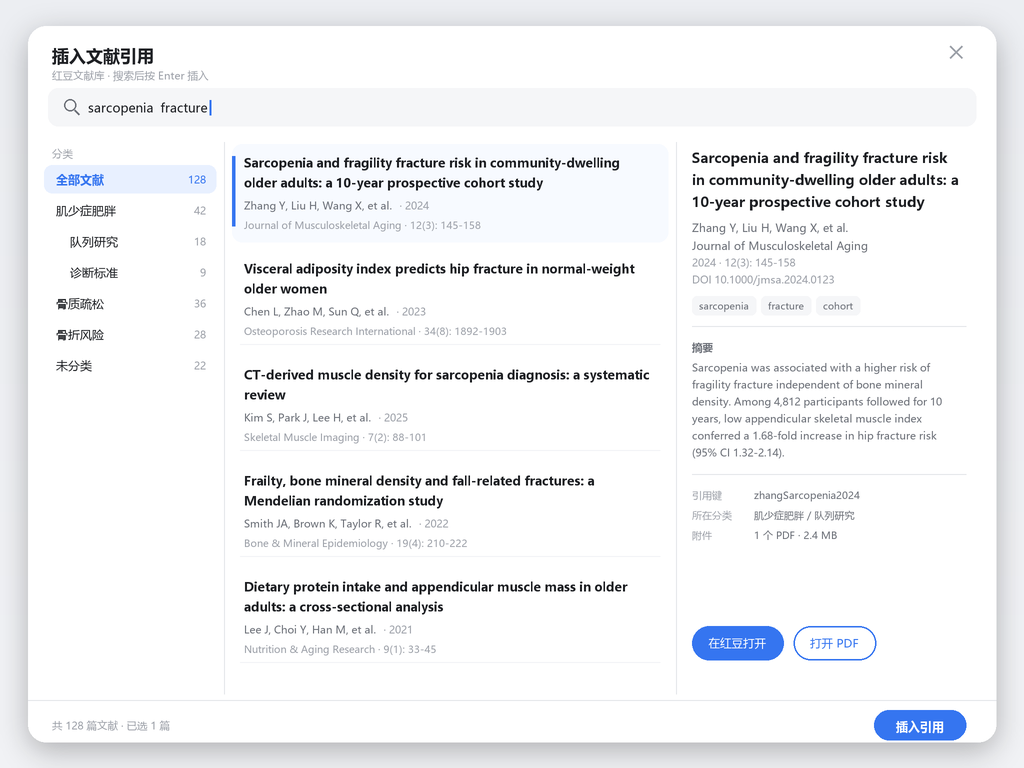
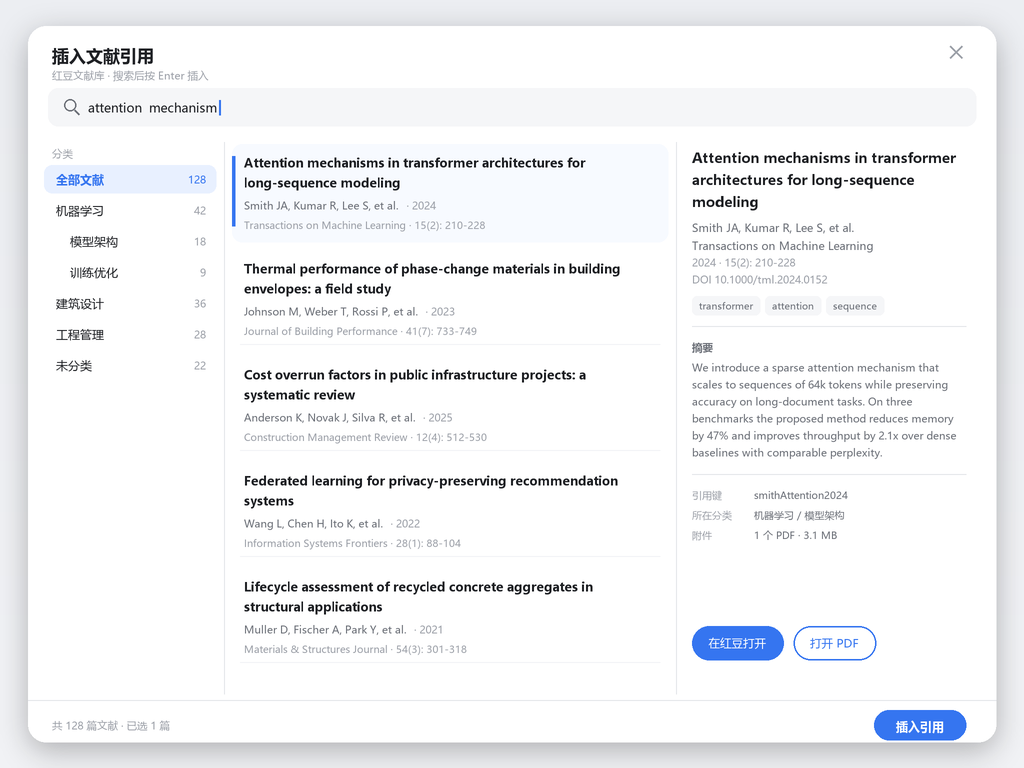
chore: v0.7.3 预览图改中性示例 + 界面内使用完整 xpi 下载地址

diff --git a/index.js b/index.js
@@ -93,8 +93,12 @@ const ATTR_CITE = CITE_PREFIX + "cite";
 /** 文档级引用样式覆盖（存 styleID）；空表示跟随全局设置 */
 const ATTR_STYLE = CITE_PREFIX + "style";
 
-/** 红豆端配套插件（双向联动）下载页 */
-const BRIDGE_DOWNLOAD_URL = "https://github.com/Yisen-Yang/hongdou-siyuan-bridge/releases/latest";
+/**
+ * 红豆端配套插件（双向联动）。
+ * BRIDGE_XPI_URL 是具体到文件的完整地址，点开即下载，不用再在 release 页里找。
+ * 注意：升级 bridge 版本时这里要同步改版本号。
+ */
+const BRIDGE_XPI_URL = "https://github.com/Yisen-Yang/hongdou-siyuan-bridge/releases/download/v0.3.0/hongdou-siyuan-bridge-0.3.0.xpi";
 
 /**
  * 样式 ID / 标题里出现这些关键词时判为数字式（顺序编码）。
@@ -5015,11 +5019,11 @@ class HongdouPlugin extends Plugin {
     <div class="hd-w-bridge-main">
         <div class="hd-w-bridge-t">${esc(i18n.welcomeBridgeT || "想在红豆里右键「发送到思源」？")}</div>
         <div class="hd-w-bridge-b">${esc(i18n.welcomeBridgeB || "双向联动需要先在红豆里装一个配套插件（Zotero 格式 .xpi），装完两边输一次配对码即可。不装也能正常用引用功能。")}</div>
-        <div class="hd-w-bridge-url">${esc(BRIDGE_DOWNLOAD_URL)}</div>
+        <div class="hd-w-bridge-url">${esc(BRIDGE_XPI_URL)}</div>
     </div>
     <div class="hd-w-bridge-acts">
-        <button class="b3-button b3-button--text hd-w-dl">${esc(i18n.welcomeBridgeDl || "下载红豆端插件")}</button>
-        <button class="b3-button b3-button--cancel hd-w-copy">${esc(i18n.welcomeBridgeCopy || "复制地址")}</button>
+        <button class="b3-button b3-button--text hd-w-dl">${esc(i18n.welcomeBridgeDl || "直接下载 xpi")}</button>
+        <button class="b3-button b3-button--cancel hd-w-copy">${esc(i18n.welcomeBridgeCopy || "复制完整地址")}</button>
     </div>
 </div>`}
   <div class="hd-w-head">${esc(i18n.welcomeLead || "红豆管文献，思源写论文。插件通过本机 MCP 直连红豆，不需要额外装插件或配对。")}</div>
@@ -5052,13 +5056,13 @@ class HongdouPlugin extends Plugin {
         if (okBtn) okBtn.addEventListener("click", finish);
         if (testBtn) testBtn.addEventListener("click", () => this.checkConnection());
         const dlBtn = d.element.querySelector(".hd-w-dl");
-        if (dlBtn) dlBtn.addEventListener("click", () => this.openExternal(BRIDGE_DOWNLOAD_URL));
+        if (dlBtn) dlBtn.addEventListener("click", () => this.openExternal(BRIDGE_XPI_URL));
         const copyBtn = d.element.querySelector(".hd-w-copy");
         if (copyBtn) copyBtn.addEventListener("click", async () => {
             try {
-                await navigator.clipboard.writeText(BRIDGE_DOWNLOAD_URL);
+                await navigator.clipboard.writeText(BRIDGE_XPI_URL);
                 showMessage(i18n.welcomeBridgeCopied || "下载地址已复制", 2600);
-            } catch (err) { showMessage(BRIDGE_DOWNLOAD_URL, 6000); }
+            } catch (err) { showMessage(BRIDGE_XPI_URL, 6000); }
         });
     }
 
@@ -5486,12 +5490,12 @@ class HongdouPlugin extends Plugin {
         // 第一项就放下载入口，没装红豆端插件的人一眼能看到
         setting.addItem({
             title: this.i18n.bridgeDlTitle || "① 下载红豆端插件（双向联动必备）",
-            description: (this.i18n.bridgeDlDesc || "还没装？下载 hongdou-siyuan-bridge.xpi，在红豆「工具 → 插件中心 → 从文件安装」，重启红豆。地址：%s")
-                .replace("%s", BRIDGE_DOWNLOAD_URL),
+            description: (this.i18n.bridgeDlDesc || "还没装？下载 hongdou-siyuan-bridge.xpi，在红豆「工具 → 插件中心 → 从文件安装」，重启红豆。\n完整地址：%s")
+                .replace("%s", BRIDGE_XPI_URL),
             action: {
                 type: "button",
-                label: this.i18n.bridgeDlBtn || "打开下载页",
-                callback: () => this.openExternal(BRIDGE_DOWNLOAD_URL),
+                label: this.i18n.bridgeDlBtn || "直接下载 xpi",
+                callback: () => this.openExternal(BRIDGE_XPI_URL),
             },
         });
 
